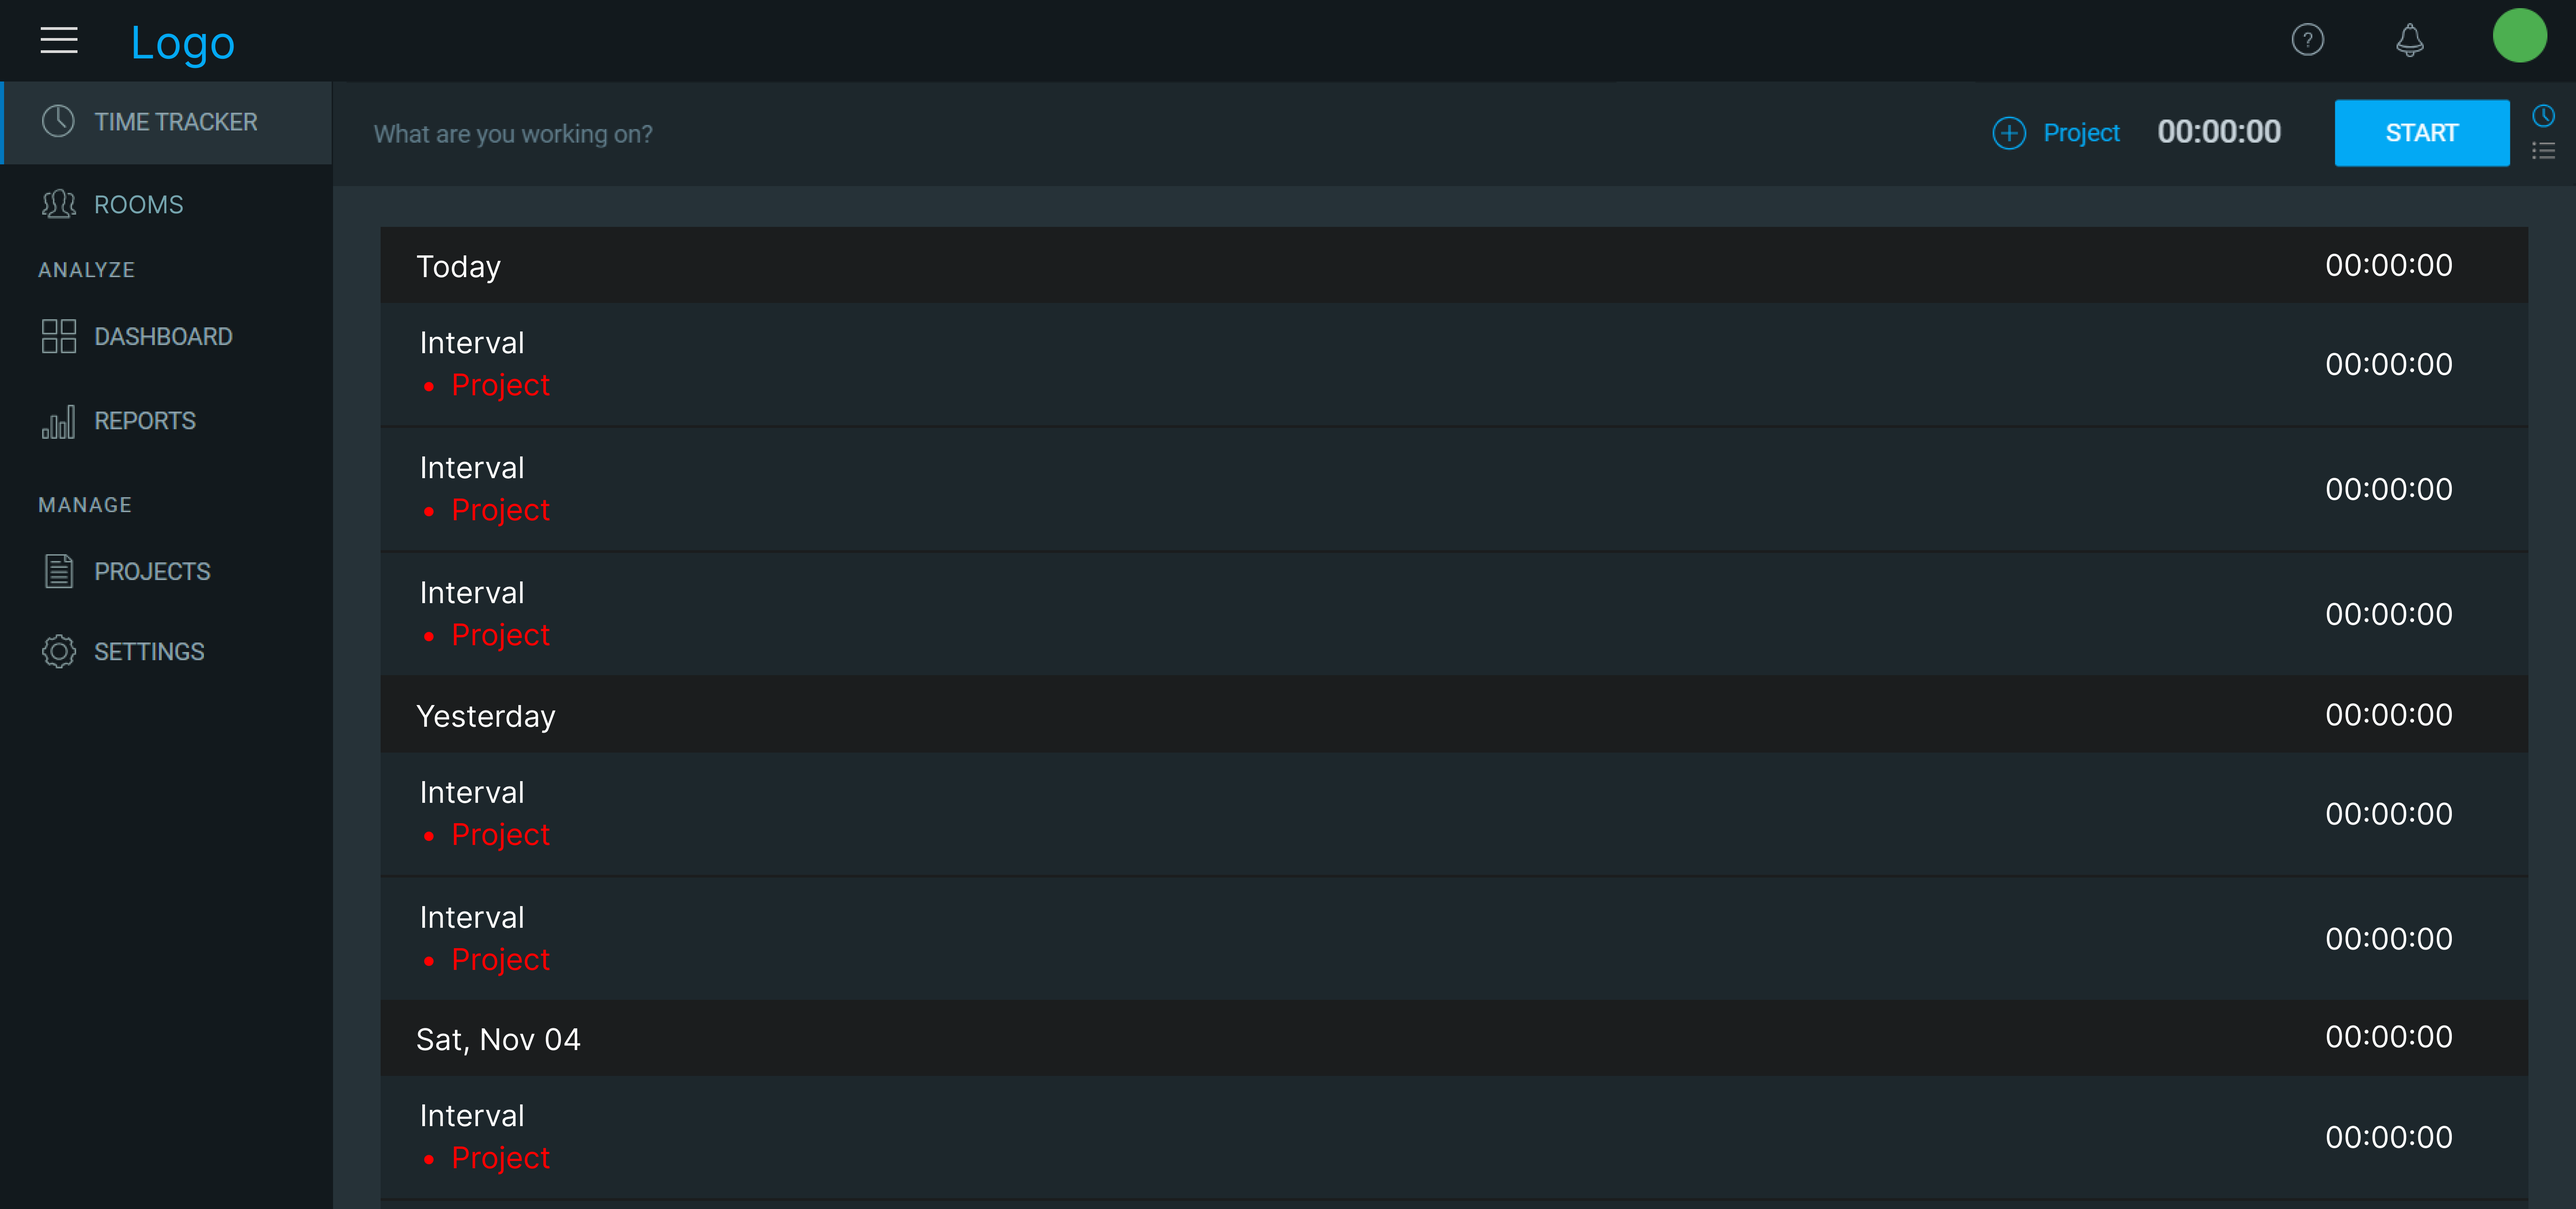
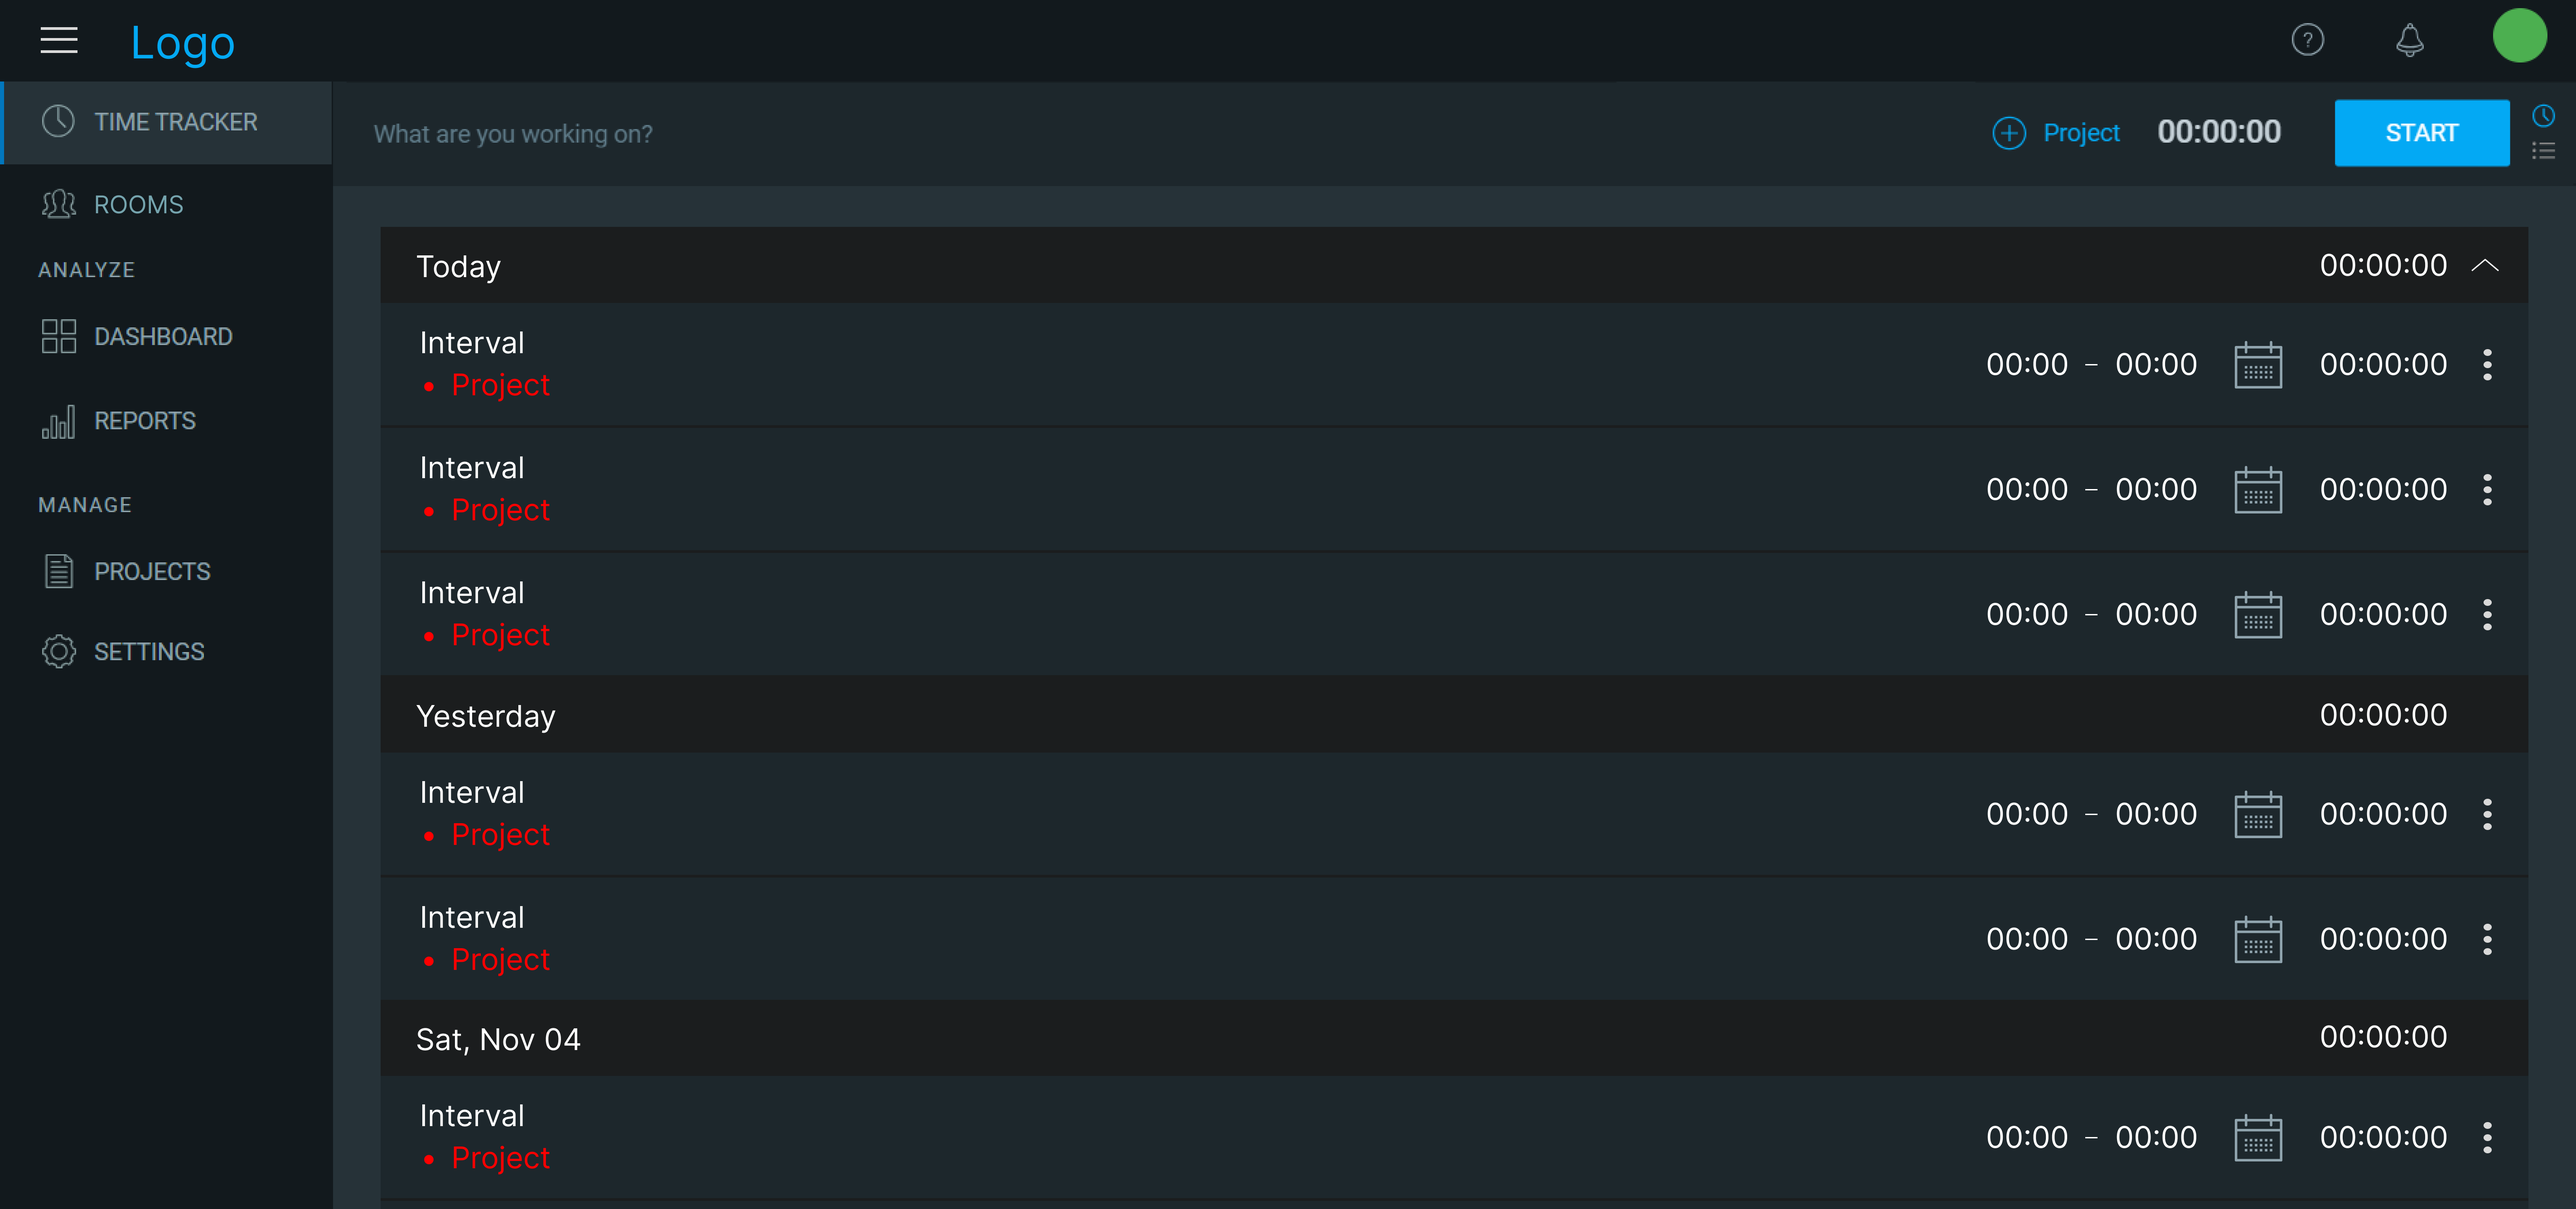
begin implementing intervals

diff --git a/frontend/src/Components/Sidebar.js b/frontend/src/Components/Sidebar.js
@@ -6,10 +6,14 @@ function Sidebar({ collapsed }) {
     return (
         <div className={`Sidebar${collapsed ? 'Collapsed' : ''}`}>
             <SidebarButton Text={"TIME TRACKER"} IconSrc = {"/Cheese.png"} Logic = {() => {console.log("Cheese")}} />
+            <SidebarButton Text={"CALENDAR"} IconSrc = {"/Cheese.png"} Logic = {() => {console.log("Cheese")}} />
             <SidebarButton Text={"ROOMS"} IconSrc = {"/Cheese.png"} Logic = {() => {console.log("Cheese")}} />
             <p>ANALYZE</p>
             <SidebarButton Text={"DASHBOARD"} IconSrc = {"/Cheese.png"} Logic = {() => {console.log("Cheese")}} />
             <SidebarButton Text={"REPORTS"} IconSrc = {"/Cheese.png"} Logic = {() => {console.log("Cheese")}} />
+            <p>MANAGE</p>
+            <SidebarButton Text={"PROJECTS"} IconSrc = {"/Cheese.png"} Logic = {() => {console.log("Cheese")}} />
+            <SidebarButton Text={"SETTINGS"} IconSrc = {"/Cheese.png"} Logic = {() => {console.log("Cheese")}} />
         </div>
     );
 }

diff --git a/frontend/src/Components/Section.js b/frontend/src/Components/Section.js
@@ -1,0 +1,12 @@
+import React from 'react';
+import '../App.css';
+import Interval from './Interval';
+
+function Section({ title }) {
+    return (
+        <div className="IntervalSection">
+            <p>title</p>
+        </div>
+    );
+}
+export default Section;

diff --git a/frontend/src/App.js b/frontend/src/App.js
@@ -163,6 +163,8 @@ function App() {
         inputWidth = {windowWidth - (collapsedMenu ? 58 : 198) + "px"}
         addProject = {() => {console.log("Added Project")}}
       />
+      <div className="TimeSections">
+      </div>
     </div>
     
   );

diff --git a/frontend/src/App.css b/frontend/src/App.css
@@ -206,3 +206,12 @@ button:hover {
 .SidebarCollapsed p {
   display: none
 }
+
+.TimeSections {
+  position: absolute;
+  top: 132px;
+  right: 28px;
+  width: 83.415vw;
+  height: calc(100vh - 132px);
+  overflow: hidden;
+}
